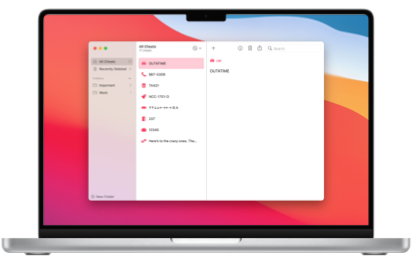
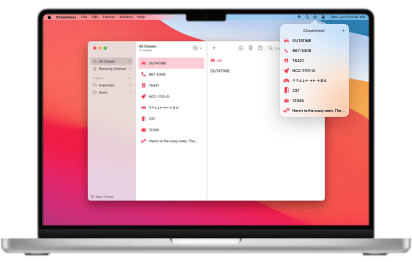
tweak mac artwork

diff --git a/cheatsheet/five/index.html b/cheatsheet/five/index.html
@@ -58,7 +58,7 @@
             </div>
             <div class="col">
               <p class="my-0">
-                Stick your Cheatsheet widget everywhere: Home Screen, Lock Screen, Watch face, Desktop, and beyond.
+                Stick widgets everywhere: Home Screen, Lock Screen, Watch face, Desktop, and beyond.
               </p>
             </div>
           </div>
@@ -68,7 +68,7 @@
             </div>
             <div class="col">
               <p class="my-0">
-                Paste anywhere with iOS custom keyboard.
+                Paste into other apps with iOS custom keyboard.
               </p>
             </div>
           </div>
@@ -146,7 +146,7 @@
             </div>
             <div class="col">
               <p class="my-0">
-                Mac app puts notes on your Desktop and menu bar.
+                Cheatsheet for Mac puts notes on your Desktop and menu bar.
               </p>
             </div>
           </div>
@@ -173,164 +173,6 @@
         </div>
         <div class="col-sm-6 order-1 order-sm-12 mb-4 mb-sm-0">
           <img alt="Cheatsheet on a Mac." class="img-fluid mx-auto d-block" src="images/web-mac@1x.png" srcset="images/web-mac@1x.png 1x, images/web-mac@2x.png 2x">
-        </div>
-      </div>
-    </section>
-    <section class="d-none">
-      <div class="row px-xl-5 px-lg-4">
-        <div class="col-sm-6">
-          <div class="row no-gutters align-items-baseline mb-3">
-            <div class="col-auto mr-2">
-              <span class="fa-stack"><span class="fa-solid fa-circle fa-stack-2x"></span><span class="fa-solid fa-stack-1x fa-pencil"></span></span>
-            </div>
-            <div class="col">
-              <p class="my-0">
-                For the little things you never remember: put them in Cheatsheet.
-              </p>
-            </div>
-          </div>
-        </div>
-        <div class="col-sm-6">
-          <div class="row no-gutters align-items-baseline mb-3">
-            <div class="col-auto mr-2">
-              <span class="fa-stack"><span class="fa-solid fa-circle fa-stack-2x"></span><span class="fa-solid fa-stack-1x fa-icons"></span></span>
-            </div>
-            <div class="col">
-              <p class="my-0">
-                Choose from 200 icons to make your note easy to recognize.
-              </p>
-            </div>
-          </div>
-        </div>
-        <div class="col-sm-6">
-          <div class="row no-gutters align-items-baseline mb-3">
-            <div class="col-auto mr-2">
-              <span class="fa-stack"><span class="fa-solid fa-circle fa-stack-2x"></span><span class="fa-solid fa-stack-1x fa-note-sticky"></span></span>
-            </div>
-            <div class="col">
-              <p class="my-0">
-                Stick your notes everywhere: Home Screen, Lock Screen, and beyond.
-              </p>
-            </div>
-          </div>
-        </div>
-        <div class="col-sm-6">
-          <div class="row no-gutters align-items-baseline mb-3">
-            <div class="col-auto mr-2">
-              <span class="fa-stack"><span class="fa-solid fa-circle fa-stack-2x"></span><span class="fa-solid fa-stack-1x fa-watch-smart"></span></span>
-            </div>
-            <div class="col">
-              <p class="my-0">
-                Full-featured Watch app with editing, sync, and complications.
-              </p>
-            </div>
-          </div>
-        </div>
-        <div class="col-sm-6">
-          <div class="row no-gutters align-items-baseline mb-3">
-            <div class="col-auto mr-2">
-              <span class="fa-stack"><span class="fa-solid fa-circle fa-stack-2x"></span><span class="fa-solid fa-stack-1x fa-computer-classic"></span></span>
-            </div>
-            <div class="col">
-              <p class="my-0">
-                Mac app puts notes on your Desktop and menu bar.
-              </p>
-            </div>
-          </div>
-        </div>
-        <div class="col-sm-6">
-          <div class="row no-gutters align-items-baseline mb-3">
-            <div class="col-auto mr-2">
-              <span class="fa-stack"><span class="fa-solid fa-circle fa-stack-2x"></span><span class="fa-solid fa-stack-1x fa-cloud"></span></span>
-            </div>
-            <div class="col">
-              <p class="my-0">
-                Sync notes to all your devices with iCloud.
-              </p>
-            </div>
-          </div>
-        </div>
-        <div class="col-sm-6">
-          <div class="row no-gutters align-items-baseline mb-3">
-            <div class="col-auto mr-2">
-              <span class="fa-stack"><span class="fa-solid fa-circle fa-stack-2x"></span><span class="fa-solid fa-stack-1x fa-font-case"></span></span>
-            </div>
-            <div class="col">
-              <p class="my-0">
-                Format with bold, italic, links, lists.
-              </p>
-            </div>
-          </div>
-        </div>
-        <div class="col-sm-6">
-          <div class="row no-gutters align-items-baseline mb-3">
-            <div class="col-auto mr-2">
-              <span class="fa-stack"><span class="fa-solid fa-circle fa-stack-2x"></span><span class="fa-solid fa-stack-1x fa-folder-closed"></span></span>
-            </div>
-            <div class="col">
-              <p class="my-0">
-                Organize with folders.
-              </p>
-            </div>
-          </div>
-        </div>
-        <div class="col-sm-6">
-          <div class="row no-gutters align-items-baseline mb-3">
-            <div class="col-auto mr-2">
-              <span class="fa-stack"><span class="fa-solid fa-circle fa-stack-2x"></span><span class="fa-solid fa-stack-1x fa-keyboard"></span></span>
-            </div>
-            <div class="col">
-              <p class="my-0">
-                Paste anywhere with iOS custom keyboard.
-              </p>
-            </div>
-          </div>
-        </div>
-        <div class="col-sm-6">
-          <div class="row no-gutters align-items-baseline mb-3">
-            <div class="col-auto mr-2">
-              <span class="fa-stack"><span class="fa-solid fa-circle fa-stack-2x"></span><span class="fa-solid fa-stack-1x fa-robot"></span></span>
-            </div>
-            <div class="col">
-              <p class="my-0">
-                Supercharge your workflow with Shortcuts.
-              </p>
-            </div>
-          </div>
-        </div>
-        <div class="col-sm-6">
-          <div class="row no-gutters align-items-baseline mb-3">
-            <div class="col-auto mr-2">
-              <span class="fa-stack"><span class="fa-solid fa-circle fa-stack-2x"></span><span class="fa-solid fa-stack-1x fa-party-horn"></span></span>
-            </div>
-            <div class="col">
-              <p class="my-0">
-                Celebrating 10 years on the App Store. Thousands of 5-star reviews.
-              </p>
-            </div>
-          </div>
-        </div>
-        <div class="col-sm-6">
-          <div class="row no-gutters align-items-baseline mb-3">
-            <div class="col-auto mr-2">
-              <span class="fa-stack"><span class="fa-solid fa-circle fa-stack-2x"></span><span class="fa-solid fa-stack-1x fa-globe fa-regular"></span></span>
-            </div>
-            <div class="col">
-              <p class="my-0">
-                Localized in English, French, German, Italian, Japanese, Korean, Portuguese, Russian, Chinese, and Spanish.
-              </p>
-            </div>
-          </div>
-        </div>
-      </div>
-    </section>
-    <section class="gray d-none">
-      <div class="row align-items-center">
-        <div class="col-12 text-center">
-          <img alt="Cheatsheet Notes app running on a Mac, an iPhone, and an iPad." class="img-fluid" src="images/devices@1x.png" srcset="images/devices@1x.png 1x, images/devices@2x.png 2x">
-          <p>
-            <a href="https://itunes.apple.com/app/id914665829"><strong>Cheatsheet Notes is a free download for iOS.</strong></a>
-          </p>
         </div>
       </div>
     </section>
